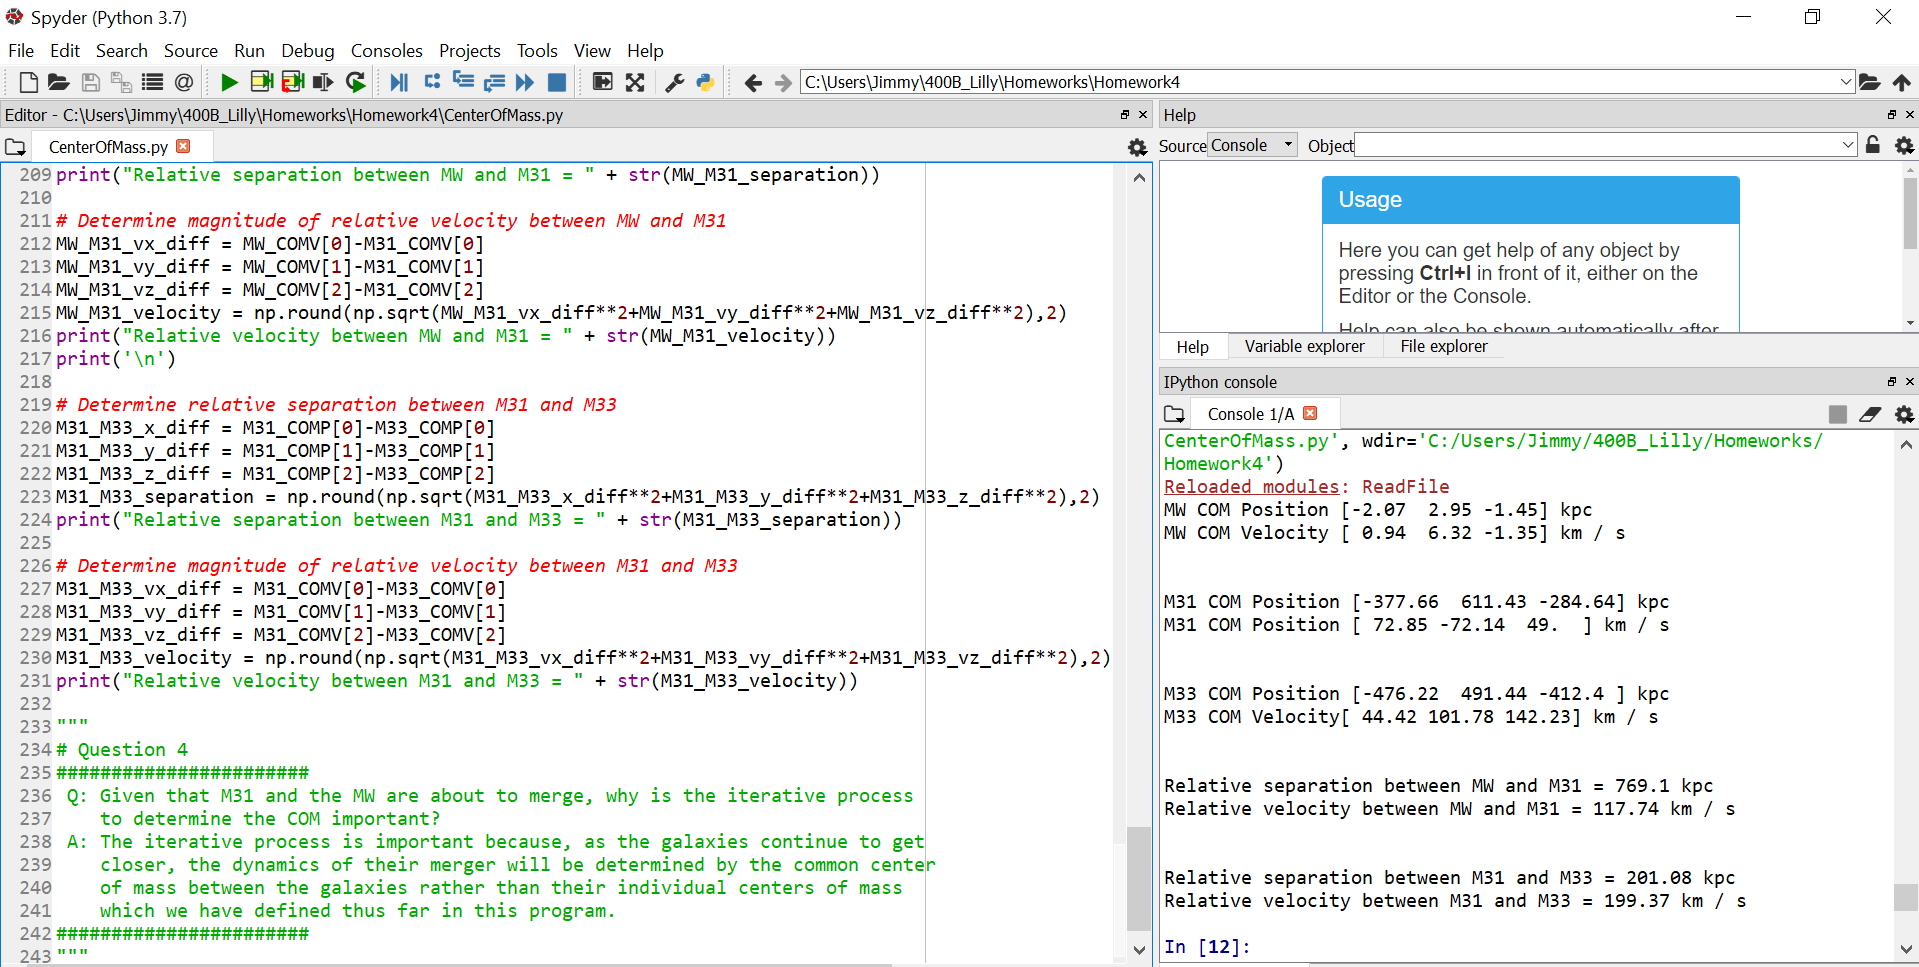
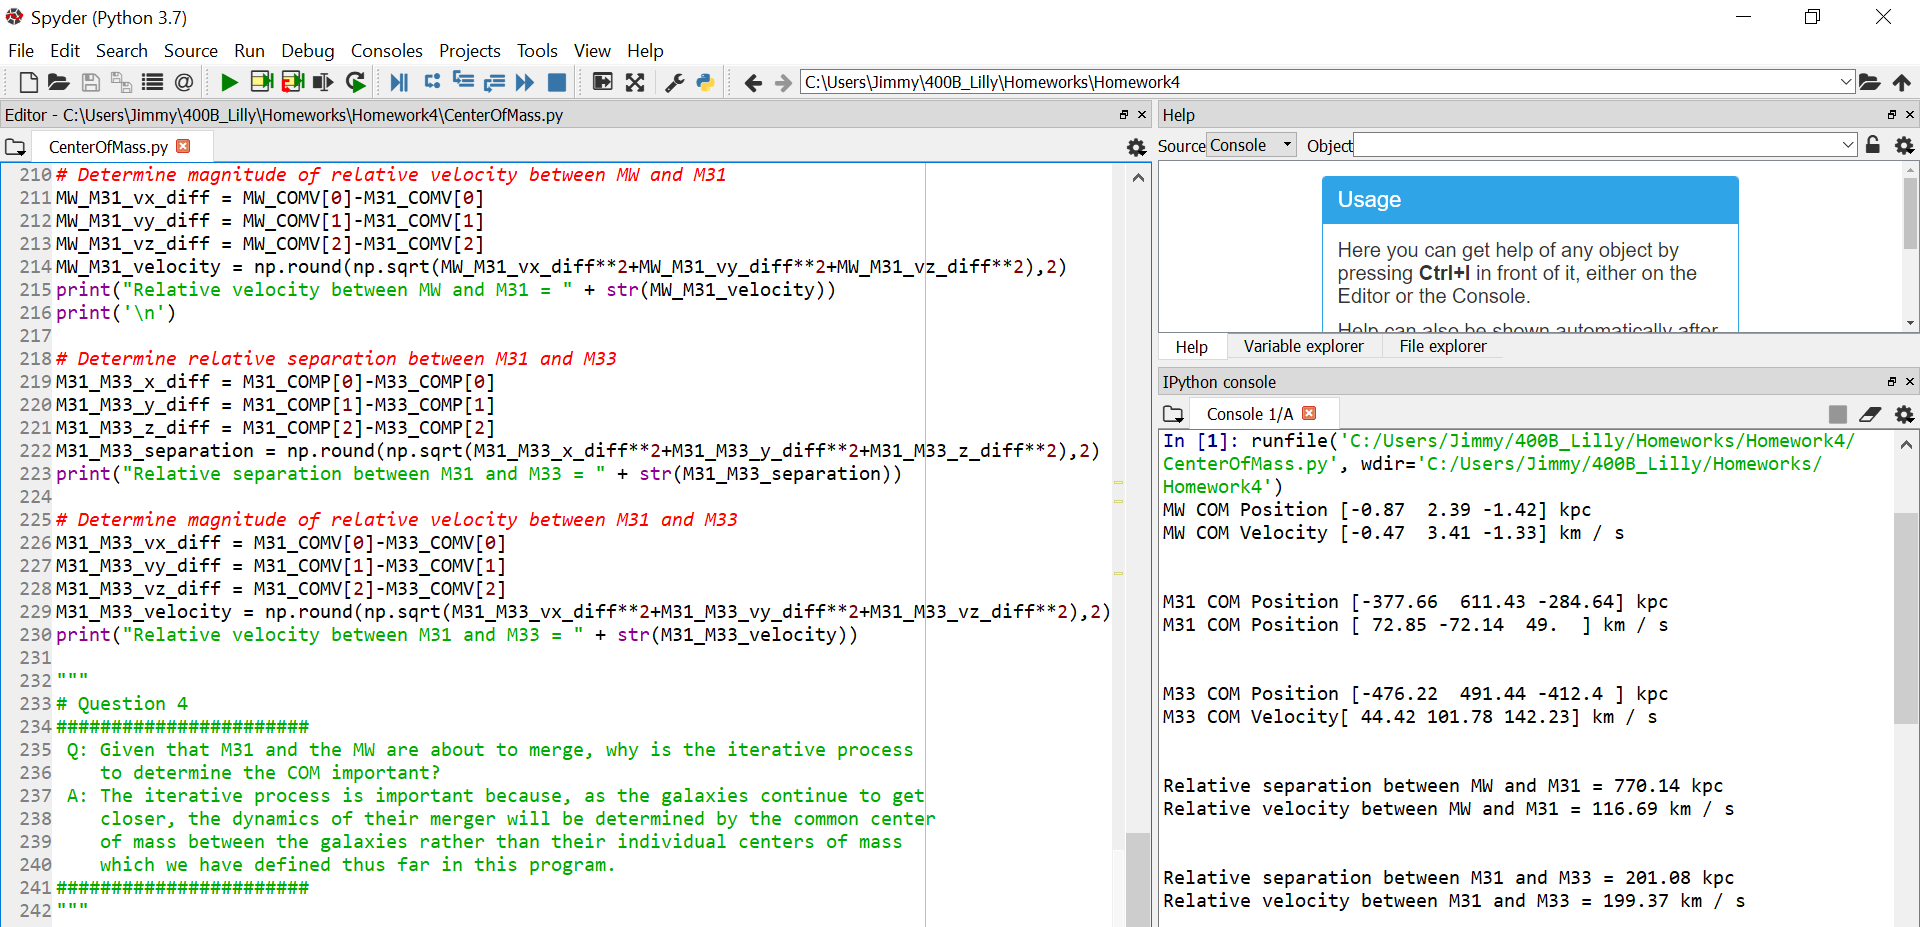
Fixed how reference fram is changed in while loop for COM_P (use x2-XCOM2 instead of self.x-XCOM2) and updated screenshot of results

diff --git a/Homeworks/Homework3/GalaxyMass.py b/Homeworks/Homework3/GalaxyMass.py
@@ -21,7 +21,7 @@ def ComponentMass(file,partType):
 
     # Store particle masses of given type in an array (units of 10^12 Msun)
     component_mass = data['m'][index]/(10**2)*u.solMass
-    
+    print(component_mass)
     # Calculate (and round) sum of all particle masses of given type
     final_component_mass = np.round(np.sum(component_mass),3)
 
@@ -52,8 +52,10 @@ def ComponentMass(file,partType):
 # masses, and baryon fractions.
 
 # Use ComponentMass to compute the mass of the MW components
-MW_halo_mass = ComponentMass('MW_000.txt',1)
-MW_disk_mass = ComponentMass('MW_000.txt',2)
+#MW_halo_mass = ComponentMass('MW_000.txt',1)
+ComponentMass('MW_000.txt',2)
+"""
+print(MW_disk_mass)
 MW_bulge_mass = ComponentMass('MW_000.txt',3)
 
 # Find MW stellar (bulk+disk) & total (halo+bulk+disk) masses & baryon fraction
@@ -64,6 +66,7 @@ MW_baryon_fraction = np.round(MW_stellar_mass/MW_total_mass,3)*u.solMass
 # Use ComponentMass to compute the mass of the MW components
 M31_halo_mass = ComponentMass('M31_000.txt',1)
 M31_disk_mass = ComponentMass('M31_000.txt',2)
+print(M31_disk_mass)
 M31_bulge_mass = ComponentMass('M31_000.txt',3)
 
 # Find M31 stellar (bulk+disk) & total (halo+bulk+disk) masses & baryon fraction
@@ -74,6 +77,7 @@ M31_baryon_fraction = np.round(M31_stellar_mass/M31_total_mass,3)*u.solMass
 # Use ComponentMass to compute the mass of the MW components
 M33_halo_mass = ComponentMass('M33_000.txt',1)
 M33_disk_mass = ComponentMass('M33_000.txt',2)
+print(M33_disk_mass)
 M33_bulge_mass = ComponentMass('M33_000.txt',3)
 
 # Find M33 stellar (bulk+disk) & total (halo+bulk+disk) masses & baryon fraction
@@ -87,7 +91,7 @@ LocalGroup_disk_mass = np.round(MW_disk_mass + M31_disk_mass + M33_disk_mass,3)
 LocalGroup_bulge_mass = np.round(MW_bulge_mass + M31_bulge_mass + M33_bulge_mass,3)
 LocalGroup_mass = np.round(MW_total_mass+M31_total_mass+M33_total_mass,3)
 LocalGroup_baryon_fraction = np.round((MW_stellar_mass+M31_stellar_mass+M33_stellar_mass)/LocalGroup_mass,3)
-
+"""
 # Print final results (all in units of 10^12 Msun)
 print(r'All results in units of 10^12 solar masses')
 print('Total MW Mass = ' + str(MW_total_mass))
@@ -103,3 +107,5 @@ print('Local Group Baryon Fraction = ' + str(LocalGroup_baryon_fraction))
 print('Local Group Halo Mass = ' + str(LocalGroup_halo_mass))
 print('Local Group Disk Mass = ' + str(LocalGroup_disk_mass))
 print('Local Group Bulge Mass = ' + str(LocalGroup_bulge_mass))
+"""
+"""

diff --git a/Homeworks/Homework4/CenterOfMass.py b/Homeworks/Homework4/CenterOfMass.py
@@ -121,9 +121,9 @@ class CenterOfMass:
 
             # Change the frame of reference to the newly computed COM.                                                 
             # subtract the new COM
-            xNew = self.x - XCOM2
-            yNew = self.y - YCOM2
-            zNew = self.z - ZCOM2
+            xNew = x2 - XCOM2
+            yNew = y2 - YCOM2
+            zNew = z2 - ZCOM2
             RNEW = np.sqrt(xNew**2+yNew**2+zNew**2)
 
             # Set the center of mass positions to the refined values                                                   
